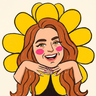
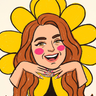
Registration page: village in the footer, calculator readable, softer highlight, Ana in first person, exit popup, sunflower behind her photo
- the village skyline moves from the hero to the top edge of the footer
- 'Bring the part': the pink editing marks (cut off at the edge) are gone
- gift: the camera zooms into the $150 card and rings the 20, then rests on the plan; the
  lock is a band along the bottom of the screen; the arrow runs from the $3,000 tile to the tag
- 'You can start from here': the yellow highlight is lighter
- labels in Ana's voice: 'From people in my past challenge', 'A student in my past challenge',
  'worked with me', 'Individual experiences from my...', the footer 'my own figures'
- header icon: cropped to the flower, no cream edge
- first-name hint: a soft pink glow every 7 seconds while the field is empty and not in use
- before you go: when someone heads for the tab bar (or flicks back up fast on a phone) the sign-up
  opens once, as 'Don't go yet. Save your free seat first...'; never in the first 12 s or twice
- I'm Ana: her sunflower in pale yellow behind the photo instead of the blue sea arch; sized to the room
  around the photo so its petals never reach the text (hidden where the photo sits under the text)

Claude-Session: https://claude.ai/code/session_01MxqKXt8jC4twN2icxWpMeU

diff --git a/index.html b/index.html
@@ -474,8 +474,8 @@ html.anim-on .ch:not(.in) .p-b{transform:translateX(40px) rotate(-8deg)}
 .fit ul button[aria-pressed=true] .tk svg{stroke-dashoffset:0}
 .fit .pain{font-weight:800;font-size:17px;line-height:1.4}
 .fit .fix{font-family:var(--serif);font-size:24px;line-height:1.25;color:var(--ink2)}
-.fit .fix span{background:linear-gradient(var(--sun),var(--sun)) no-repeat 0 88%/0% 42%;transition:background-size .5s var(--ease);-webkit-box-decoration-break:clone;box-decoration-break:clone}
-.fit ul button[aria-pressed=true] .fix span{background-size:100% 42%}
+.fit .fix span{background:linear-gradient(rgba(255,212,0,.42),rgba(255,212,0,.42)) no-repeat 0 90%/0% 34%;transition:background-size .5s var(--ease);-webkit-box-decoration-break:clone;box-decoration-break:clone}
+.fit ul button[aria-pressed=true] .fix span{background-size:100% 34%}
 .fit .tip{margin-top:18px;font-size:16px;color:var(--ink3);font-weight:700}
 .fit .not{margin-top:30px;font-size:15px;color:var(--ink3);text-align:center;text-wrap:balance}
 
@@ -1257,12 +1257,12 @@ html.anim-on [data-r]:not(.in){opacity:0;transform:translateY(22px)}
 @keyframes tksway{0%,16%,100%{transform:none}3%{transform:rotate(-1.3deg)}6.5%{transform:rotate(1.1deg)}10%{transform:rotate(-.6deg)}13%{transform:rotate(.25deg)}}
 @keyframes fglow{0%{border-color:var(--pink);background-color:#FFF3F9;box-shadow:0 0 0 0 rgba(247,37,133,.6),0 0 22px rgba(247,37,133,.4)}50%{border-color:var(--pink);background-color:#FFF3F9;box-shadow:0 0 0 10px rgba(247,37,133,0),0 0 22px rgba(247,37,133,.18)}85%,100%{border-color:#cbb9a2;background-color:#fff;box-shadow:0 0 0 0 rgba(247,37,133,0),0 0 0 rgba(247,37,133,0)}}
 .tkt .fmeta{text-wrap:balance}
-@keyframes fhint{0%,100%{border-color:#cbb9a2;box-shadow:0 0 0 0 rgba(247,37,133,0)}45%{border-color:rgba(247,37,133,.7);box-shadow:0 0 0 4px rgba(247,37,133,.1)}}
+@keyframes fhint{0%,30%,100%{border-color:#cbb9a2;box-shadow:0 0 0 0 rgba(247,37,133,0);background-color:#fff}12%{border-color:rgba(247,37,133,.75);box-shadow:0 0 0 5px rgba(247,37,133,.12);background-color:#FFF7FB}}
 @keyframes bglow{0%{outline:2px solid rgba(247,37,133,.35);outline-offset:0}65%,100%{outline:2px solid rgba(247,37,133,0);outline-offset:8px}}
 @media (prefers-reduced-motion:no-preference){
   .tkshell{animation:tksway 7s ease-in-out 2.5s infinite}
   .tkshell:focus-within,.tkshell:has(input:not(:placeholder-shown)){animation:none}
-  .tkt form .field input[name=first_name]:placeholder-shown:not(:focus){animation:fhint 2.8s ease-in-out 1.6s 2}
+  .tkt form .field input[name=first_name]:placeholder-shown:not(:focus){animation:fhint 7s ease-in-out 2.5s infinite}
   .tkt form:has(input[name=first_name]:not(:placeholder-shown)) .field input[name=email_address]:placeholder-shown:not(:focus){animation:fhint 2.8s ease-in-out .4s 1}
   .tkt form:has(input[name=first_name]:not(:placeholder-shown)):has(input[name=email_address]:valid) .btn.big{animation:bglow 2.4s ease-out .3s 2}
 }
@@ -1377,7 +1377,7 @@ mark.sk{color:var(--ink);font-weight:700;padding:0 2px;margin:0 -2px;-webkit-box
 .rvp .rv-q b{font-size:2.1cqw}.rvp .rv-q p{font-size:2.4cqw;line-height:1.3;color:var(--ink);margin-top:.2cqw}
 .rvp .rv-st{display:inline-flex;align-items:center;gap:.8cqw;margin-top:.8cqw;font-size:1.7cqw;font-weight:700;color:var(--pink)}
 .rvp .rv-st i{width:1.2cqw;height:1.2cqw;border-radius:50%;background:var(--pink)}
-.gcard:has(.gpaint){grid-template-columns:minmax(0,1.05fr) minmax(0,1fr);align-items:center}
+.gcard:has(.gpaint){grid-template-columns:minmax(0,1.3fr) minmax(0,1fr);align-items:center}
 .gpaint .gp-cam{position:absolute;inset:0;transform-origin:0 0}
 .gpaint .gp-cam img{width:100%;height:100%;object-fit:cover;object-position:0 0}
 .gpaint .gp-ink{position:absolute;inset:0;width:100%;height:100%;overflow:visible}
@@ -1656,7 +1656,7 @@ mark.sk{color:var(--ink);font-weight:700;padding:0 2px;margin:0 -2px;-webkit-box
 .gpaint .gp-doc{position:relative;width:100%}
 .gpaint .gp-doc img{display:block;width:100%!important;height:auto!important;object-fit:fill!important}
 .gpaint .gp-doc .gp-ink{position:absolute;inset:0;width:100%;height:100%}
-.gp-lock{position:absolute;left:0;right:0;top:64%;bottom:0;display:flex;align-items:flex-start;justify-content:center;padding-top:2.2%;background:linear-gradient(180deg,rgba(255,248,238,0),rgba(255,248,238,.32) 6%);-webkit-backdrop-filter:blur(2.6px);backdrop-filter:blur(2.6px)}
+.gp-lock{position:absolute;left:0;right:0;bottom:0;height:21%;z-index:3;display:flex;align-items:center;justify-content:center;background:linear-gradient(180deg,rgba(255,248,238,0),rgba(255,248,238,.75) 30%);-webkit-backdrop-filter:blur(3px);backdrop-filter:blur(3px)}
 .gp-lock span{display:inline-flex;align-items:center;gap:6px;padding:6px 12px;border-radius:999px;background:#FFD400;border:1.5px solid #1A1412;font:800 11.5px/1.1 Manrope,sans-serif;color:#1A1412;box-shadow:3px 3px 0 #1A1412;white-space:nowrap}
 .gp-lock span svg{width:13px;height:13px}
 /* the life calendar: money lifts off the two-hour blocks and drifts toward the free evenings and the weekend */
@@ -1730,7 +1730,8 @@ mark.sk{color:var(--ink);font-weight:700;padding:0 2px;margin:0 -2px;-webkit-box
    gift: the life you want (sunset sea) behind the laptop · wins: a pinboard · the 1:1s: the call rings out ·
    see you Tuesday: the sun rising over the sea behind her photo */
 .hero{background-image:linear-gradient(115deg,rgba(255,212,0,0) 30%,rgba(255,212,0,.1) 45%,rgba(255,212,0,0) 62%),radial-gradient(46% 42% at 26% 44%,rgba(255,212,0,.16),rgba(255,212,0,0) 70%),url(img/vip/paint/tx-stucco.webp)!important;background-size:auto,auto,460px!important}
-.bk-vil{position:absolute;left:0;right:0;bottom:0;width:100%;height:170px;opacity:.6;pointer-events:none;z-index:0}
+footer.has-vil{position:relative}
+.ft-vil{position:absolute;left:0;right:0;bottom:calc(100% - 22px);width:100%;height:150px;pointer-events:none}
 .hero .hwrap{position:relative;z-index:1}
 .stage .sky{position:absolute;inset:0;overflow:hidden}
 .sky.s1{background:linear-gradient(180deg,#FFF5DA 0%,#FFE7C2 60%,#FFD9AE 100%)}
@@ -1744,7 +1745,10 @@ mark.sk{color:var(--ink);font-weight:700;padding:0 2px;margin:0 -2px;-webkit-box
 .lv .stage .fl{display:none}
 .where{position:relative}
 .where>.wrap{position:relative;z-index:1}
-.hst-pic .bk-aeg{position:absolute;left:-16%;right:-16%;top:-10%;width:132%;height:112%;z-index:0}
+.hst-tx{position:relative;z-index:2}
+.hst-pic .bk-sf{position:absolute;left:50%;top:50%;width:150%;max-width:none;aspect-ratio:1;height:auto;transform:translate(-50%,-50%);z-index:0;opacity:.9;pointer-events:none}
+@media (prefers-reduced-motion:no-preference){.hst-pic .bk-sf{animation:sfTurn 120s linear infinite}}
+@keyframes sfTurn{to{transform:translate(-50%,-50%) rotate(360deg)}}
 .hst-pic figure{position:relative;z-index:1}
 .life{position:relative;background-image:linear-gradient(90deg,rgba(255,226,140,.45),rgba(255,232,241,0) 40%,rgba(255,232,241,0) 62%,rgba(247,37,133,.12))!important}
 .life>.wrap{position:relative;z-index:1}
@@ -1799,7 +1803,7 @@ mark.sk{color:var(--ink);font-weight:700;padding:0 2px;margin:0 -2px;-webkit-box
 .fit ul.nb li:last-child{border-bottom:0}
 .fit ul.nb button{grid-template-columns:36px 1fr 1fr;gap:22px 30px;background:transparent;border:0;border-radius:0;padding:18px 30px 18px 40px;box-shadow:none;transform:none}
 .fit ul.nb button:hover{transform:none;background:rgba(255,212,0,.08)}
-.fit ul.nb button[aria-pressed=true]{background:rgba(255,212,0,.09);box-shadow:none;border:0}
+.fit ul.nb button[aria-pressed=true]{background:rgba(255,212,0,.06);box-shadow:none;border:0}
 .fit ul.nb .tk{position:relative;z-index:1;margin-left:-13px;background:#FFFDF7}
 @media (max-width:760px){.fit ul.nb{padding:18px 0 8px 0;transform:none}.fit ul.nb:before{left:29px}.fit ul.nb button{grid-template-columns:32px 1fr;gap:6px 14px;padding:16px 16px 16px 30px}.fit ul.nb .tk{margin-left:-17px}}
 /* the window in depth: the video sits back in the wall (lintel, jambs and sill drawn as a recess, shadow from the top
@@ -1885,7 +1889,6 @@ mark.sk{color:var(--ink);font-weight:700;padding:0 2px;margin:0 -2px;-webkit-box
 
 <!-- 1. HERO: the client hero layout (Kieran Drew / Chad Carson), component for component, in Ana's skin -->
 <section class="hero" id="hero">
-  <svg class="bk-vil" viewBox="0 0 1440 170" preserveAspectRatio="xMidYMax slice" aria-hidden="true"><path d="M0 170 V150 C200 130 420 142 720 128 C1000 116 1250 134 1440 120 V170 Z" fill="#EFE6D8"/><path d="M86 170 C77 140 80 110 86 92 C92 110 95 140 86 170 Z" fill="#8FAA6A"/><path d="M540 170 C531 140 534 110 540 92 C546 110 549 140 540 170 Z" fill="#8FAA6A"/><path d="M1040 170 C1031 140 1034 110 1040 92 C1046 110 1049 140 1040 170 Z" fill="#8FAA6A"/><path d="M1350 170 C1341 140 1344 110 1350 92 C1356 110 1359 140 1350 170 Z" fill="#8FAA6A"/><rect x="20" y="112" width="70" height="58" fill="#FFFFFF" stroke="#E2D6C6" stroke-width="1.2"/><rect x="47" y="138" width="15" height="32" fill="#9DBEDD"/><rect x="28" y="122" width="11" height="11" fill="#BFD7EC"/><rect x="96" y="96" width="54" height="74" fill="#FFFFFF" stroke="#E2D6C6" stroke-width="1.2"/><rect x="117" y="129" width="12" height="41" fill="#9DBEDD"/><circle cx="140" cy="100" r="9" fill="#F7A8C8"/><circle cx="148" cy="106" r="7" fill="#F28AB2"/><rect x="156" y="118" width="80" height="52" fill="#FFFFFF" stroke="#E2D6C6" stroke-width="1.2"/><rect x="186" y="141" width="18" height="29" fill="#9DBEDD"/><rect x="244" y="104" width="60" height="66" fill="#FFFFFF" stroke="#E2D6C6" stroke-width="1.2"/><rect x="267" y="134" width="13" height="36" fill="#9DBEDD"/><rect x="251" y="116" width="10" height="10" fill="#BFD7EC"/><rect x="310" y="122" width="90" height="48" fill="#FFFFFF" stroke="#E2D6C6" stroke-width="1.2"/><rect x="344" y="144" width="20" height="26" fill="#9DBEDD"/><rect x="410" y="100" width="56" height="70" fill="#FFFFFF" stroke="#E2D6C6" stroke-width="1.2"/><rect x="431" y="132" width="12" height="38" fill="#9DBEDD"/><circle cx="456" cy="104" r="9" fill="#F7A8C8"/><circle cx="464" cy="110" r="7" fill="#F28AB2"/><rect x="474" y="114" width="74" height="56" fill="#FFFFFF" stroke="#E2D6C6" stroke-width="1.2"/><rect x="502" y="139" width="16" height="31" fill="#9DBEDD"/><rect x="483" y="124" width="12" height="12" fill="#BFD7EC"/><rect x="560" y="108" width="64" height="62" fill="#FFFFFF" stroke="#E2D6C6" stroke-width="1.2"/><rect x="584" y="136" width="14" height="34" fill="#9DBEDD"/><rect x="632" y="120" width="88" height="50" fill="#FFFFFF" stroke="#E2D6C6" stroke-width="1.2"/><rect x="665" y="142" width="19" height="28" fill="#9DBEDD"/><rect x="732" y="98" width="58" height="72" fill="#FFFFFF" stroke="#E2D6C6" stroke-width="1.2"/><rect x="754" y="130" width="13" height="40" fill="#9DBEDD"/><rect x="739" y="111" width="9" height="9" fill="#BFD7EC"/><circle cx="780" cy="102" r="9" fill="#F7A8C8"/><circle cx="788" cy="108" r="7" fill="#F28AB2"/><rect x="798" y="116" width="76" height="54" fill="#FFFFFF" stroke="#E2D6C6" stroke-width="1.2"/><rect x="827" y="140" width="17" height="30" fill="#9DBEDD"/><rect x="886" y="106" width="62" height="64" fill="#FFFFFF" stroke="#E2D6C6" stroke-width="1.2"/><rect x="910" y="135" width="14" height="35" fill="#9DBEDD"/><rect x="956" y="120" width="84" height="50" fill="#FFFFFF" stroke="#E2D6C6" stroke-width="1.2"/><rect x="988" y="142" width="18" height="28" fill="#9DBEDD"/><rect x="966" y="129" width="13" height="13" fill="#BFD7EC"/><rect x="1048" y="100" width="58" height="70" fill="#FFFFFF" stroke="#E2D6C6" stroke-width="1.2"/><rect x="1070" y="132" width="13" height="38" fill="#9DBEDD"/><circle cx="1096" cy="104" r="9" fill="#F7A8C8"/><circle cx="1104" cy="110" r="7" fill="#F28AB2"/><rect x="1114" y="114" width="72" height="56" fill="#FFFFFF" stroke="#E2D6C6" stroke-width="1.2"/><rect x="1141" y="139" width="16" height="31" fill="#9DBEDD"/><rect x="1194" y="108" width="66" height="62" fill="#FFFFFF" stroke="#E2D6C6" stroke-width="1.2"/><rect x="1219" y="136" width="15" height="34" fill="#9DBEDD"/><rect x="1202" y="119" width="11" height="11" fill="#BFD7EC"/><rect x="1268" y="118" width="86" height="52" fill="#FFFFFF" stroke="#E2D6C6" stroke-width="1.2"/><rect x="1301" y="141" width="19" height="29" fill="#9DBEDD"/><rect x="1362" y="102" width="60" height="68" fill="#FFFFFF" stroke="#E2D6C6" stroke-width="1.2"/><rect x="1385" y="133" width="13" height="37" fill="#9DBEDD"/><circle cx="1412" cy="106" r="9" fill="#F7A8C8"/><circle cx="1420" cy="112" r="7" fill="#F28AB2"/><path d="M316 122 a22 22 0 0 1 44 0 Z" fill="#7EA6D0"/><rect x="336.5" y="88" width="3" height="12" fill="#7EA6D0"/><path d="M962 120 a24 24 0 0 1 48 0 Z" fill="#7EA6D0"/><rect x="984.5" y="84" width="3" height="12" fill="#7EA6D0"/></svg>
   <svg class="bgflower" aria-hidden="true"><use href="#sfo"/></svg>
   <svg class="bgflower b" aria-hidden="true"><use href="#sfo"/></svg>
   <div class="hwrap hgrid v2h">
@@ -2101,13 +2104,13 @@ mark.sk{color:var(--ink);font-weight:700;padding:0 2px;margin:0 -2px;-webkit-box
     <!-- what a first offer can do with a small list: three results -->
     <div class="trio" data-r>
       <h3 class="trio-h"><span class="l">Small lists.</span> <span class="l"><em>Real results.</em></span></h3>
-      <p class="trio-k">From people in Ana’s past challenge</p>
+      <p class="trio-k">From people in my past challenge</p>
       <div class="trio-g">
-        <figure class="trr"><b class="trr-n">$3,000+</b><span class="trr-f">in a month, from about 300 readers</span><span class="trr-cash" data-bills="30" aria-hidden="true"></span><div class="rn"><div class="rn-hd"><span class="rn-av">JH</span><span><b>Jill Hart | World Changer</b><small>Substack note</small></span></div><p><span class="rn-at">Ana Calin</span> When I first started here she really helped me sort out what was important and where to focus - because of her advise I was able to monetize a 300ish audience and make over $3K in a month. And she helped me connect the idea of Substack &amp; Skool together.</p><span class="rn-ic" aria-hidden="true"><svg viewBox="0 0 24 24"><path d="M12 20s-7-4.4-7-10a4 4 0 0 1 7-2.6A4 4 0 0 1 19 10c0 5.6-7 10-7 10Z"/></svg><svg viewBox="0 0 24 24"><path d="M5 5h14v10H9l-4 4Z"/></svg><svg viewBox="0 0 24 24"><path d="M7 7h10l-3-3M17 17H7l3 3M17 7v4M7 17v-4"/></svg><svg viewBox="0 0 24 24"><path d="M12 15V4M8 8l4-4 4 4M5 13v6h14v-6"/></svg></span></div><figcaption>Jill Hart, in Ana’s past challenge</figcaption></figure>
-        <figure class="trr"><b class="trr-n">$3,200</b><span class="trr-f">from 547 subscribers</span><span class="trr-cash" data-bills="32" aria-hidden="true"></span><div class="trq"><p>First launch ever. Three emails, launched the same week.</p></div><figcaption>A student in Ana’s past challenge</figcaption></figure>
-        <figure class="trr"><b class="trr-n">$2,400</b><span class="trr-f">from 198 subscribers</span><span class="trr-cash" data-bills="24" aria-hidden="true"></span><div class="trq"><p>She almost didn’t start because she thought 198 subscribers wasn’t enough. It was.</p></div><figcaption>A student in Ana’s past challenge</figcaption></figure>
+        <figure class="trr"><b class="trr-n">$3,000+</b><span class="trr-f">in a month, from about 300 readers</span><span class="trr-cash" data-bills="30" aria-hidden="true"></span><div class="rn"><div class="rn-hd"><span class="rn-av">JH</span><span><b>Jill Hart | World Changer</b><small>Substack note</small></span></div><p><span class="rn-at">Ana Calin</span> When I first started here she really helped me sort out what was important and where to focus - because of her advise I was able to monetize a 300ish audience and make over $3K in a month. And she helped me connect the idea of Substack &amp; Skool together.</p><span class="rn-ic" aria-hidden="true"><svg viewBox="0 0 24 24"><path d="M12 20s-7-4.4-7-10a4 4 0 0 1 7-2.6A4 4 0 0 1 19 10c0 5.6-7 10-7 10Z"/></svg><svg viewBox="0 0 24 24"><path d="M5 5h14v10H9l-4 4Z"/></svg><svg viewBox="0 0 24 24"><path d="M7 7h10l-3-3M17 17H7l3 3M17 7v4M7 17v-4"/></svg><svg viewBox="0 0 24 24"><path d="M12 15V4M8 8l4-4 4 4M5 13v6h14v-6"/></svg></span></div><figcaption>Jill Hart, in my past challenge</figcaption></figure>
+        <figure class="trr"><b class="trr-n">$3,200</b><span class="trr-f">from 547 subscribers</span><span class="trr-cash" data-bills="32" aria-hidden="true"></span><div class="trq"><p>First launch ever. Three emails, launched the same week.</p></div><figcaption>A student in my past challenge</figcaption></figure>
+        <figure class="trr"><b class="trr-n">$2,400</b><span class="trr-f">from 198 subscribers</span><span class="trr-cash" data-bills="24" aria-hidden="true"></span><div class="trq"><p>She almost didn’t start because she thought 198 subscribers wasn’t enough. It was.</p></div><figcaption>A student in my past challenge</figcaption></figure>
       </div>
-      <p class="trio-n">Individual experiences from Ana’s past challenge. Results vary.</p>
+      <p class="trio-n">Individual experiences from my past challenge. Results vary.</p>
     </div>
 
     <div class="after" data-r>
@@ -2146,7 +2149,7 @@ mark.sk{color:var(--ink);font-weight:700;padding:0 2px;margin:0 -2px;-webkit-box
         <div class="cta2"><button class="btn open" type="button" data-cta="host"><span class="sf-b" aria-hidden="true"><svg><use href="#sf"/></svg></span><span class="bt">Show me your numbers, Ana <small class="bq">(free)</small></span><svg class="ar"><use href="#arr"/></svg></button><small>free · live on Zoom</small></div>
       </div>
       <div class="hst-pic" data-r>
-        <svg class="bk-aeg" viewBox="0 0 400 480" preserveAspectRatio="xMidYMid slice" aria-hidden="true"><defs><clipPath id="aegA"><path d="M0 480 V170 A200 170 0 0 1 400 170 V480 Z"/></clipPath><linearGradient id="aegS" x1="0" y1="0" x2="0" y2="1"><stop offset="0" stop-color="#CFE3F3"/><stop offset="1" stop-color="#F5F1E8"/></linearGradient></defs><g clip-path="url(#aegA)"><rect width="400" height="480" fill="url(#aegS)"/><circle cx="318" cy="92" r="34" fill="#FFD966"/><circle cx="318" cy="92" r="46" fill="none" stroke="#FFD966" stroke-width="2" stroke-dasharray="2 7"/><path d="M0 300 C80 292 160 306 240 298 C300 292 360 300 400 296 V480 H0Z" fill="#7EA6D0"/><path d="M0 340 C80 332 160 346 240 338 S360 340 400 336 V480 H0Z" fill="#5E8FC6"/><path d="M30 322 h40 M130 352 h52 M260 326 h44 M300 372 h56 M60 392 h40" stroke="#BFD7EC" stroke-width="3" stroke-linecap="round"/><path d="M0 300 V250 H34 V232 H70 V262 H96 V300 Z" fill="#fff"/><path d="M34 232 a18 18 0 0 1 36 0Z" fill="#3F7FB8"/><path d="M332 300 V262 H362 V244 H400 V300 Z" fill="#fff"/><path d="M196 330 L232 330 L226 340 L202 340 Z" fill="#F72585"/><path d="M214 330 V306 L230 326 Z" fill="#fff"/></g><path d="M0 480 V170 A200 170 0 0 1 400 170 V480" fill="none" stroke="#FFFFFF" stroke-width="10"/></svg>
+        <svg class="bk-sf" viewBox="-100 -100 200 200" aria-hidden="true"><g><ellipse cx="0" cy="-71" rx="13" ry="27" fill="#FFE68E" transform="rotate(0.0)"/><ellipse cx="0" cy="-71" rx="13" ry="27" fill="#FFE68E" transform="rotate(22.5)"/><ellipse cx="0" cy="-71" rx="13" ry="27" fill="#FFE68E" transform="rotate(45.0)"/><ellipse cx="0" cy="-71" rx="13" ry="27" fill="#FFE68E" transform="rotate(67.5)"/><ellipse cx="0" cy="-71" rx="13" ry="27" fill="#FFE68E" transform="rotate(90.0)"/><ellipse cx="0" cy="-71" rx="13" ry="27" fill="#FFE68E" transform="rotate(112.5)"/><ellipse cx="0" cy="-71" rx="13" ry="27" fill="#FFE68E" transform="rotate(135.0)"/><ellipse cx="0" cy="-71" rx="13" ry="27" fill="#FFE68E" transform="rotate(157.5)"/><ellipse cx="0" cy="-71" rx="13" ry="27" fill="#FFE68E" transform="rotate(180.0)"/><ellipse cx="0" cy="-71" rx="13" ry="27" fill="#FFE68E" transform="rotate(202.5)"/><ellipse cx="0" cy="-71" rx="13" ry="27" fill="#FFE68E" transform="rotate(225.0)"/><ellipse cx="0" cy="-71" rx="13" ry="27" fill="#FFE68E" transform="rotate(247.5)"/><ellipse cx="0" cy="-71" rx="13" ry="27" fill="#FFE68E" transform="rotate(270.0)"/><ellipse cx="0" cy="-71" rx="13" ry="27" fill="#FFE68E" transform="rotate(292.5)"/><ellipse cx="0" cy="-71" rx="13" ry="27" fill="#FFE68E" transform="rotate(315.0)"/><ellipse cx="0" cy="-71" rx="13" ry="27" fill="#FFE68E" transform="rotate(337.5)"/><ellipse cx="0" cy="-63" rx="12" ry="24" fill="#FFD95C" transform="rotate(11.25)"/><ellipse cx="0" cy="-63" rx="12" ry="24" fill="#FFD95C" transform="rotate(33.75)"/><ellipse cx="0" cy="-63" rx="12" ry="24" fill="#FFD95C" transform="rotate(56.25)"/><ellipse cx="0" cy="-63" rx="12" ry="24" fill="#FFD95C" transform="rotate(78.75)"/><ellipse cx="0" cy="-63" rx="12" ry="24" fill="#FFD95C" transform="rotate(101.25)"/><ellipse cx="0" cy="-63" rx="12" ry="24" fill="#FFD95C" transform="rotate(123.75)"/><ellipse cx="0" cy="-63" rx="12" ry="24" fill="#FFD95C" transform="rotate(146.25)"/><ellipse cx="0" cy="-63" rx="12" ry="24" fill="#FFD95C" transform="rotate(168.75)"/><ellipse cx="0" cy="-63" rx="12" ry="24" fill="#FFD95C" transform="rotate(191.25)"/><ellipse cx="0" cy="-63" rx="12" ry="24" fill="#FFD95C" transform="rotate(213.75)"/><ellipse cx="0" cy="-63" rx="12" ry="24" fill="#FFD95C" transform="rotate(236.25)"/><ellipse cx="0" cy="-63" rx="12" ry="24" fill="#FFD95C" transform="rotate(258.75)"/><ellipse cx="0" cy="-63" rx="12" ry="24" fill="#FFD95C" transform="rotate(281.25)"/><ellipse cx="0" cy="-63" rx="12" ry="24" fill="#FFD95C" transform="rotate(303.75)"/><ellipse cx="0" cy="-63" rx="12" ry="24" fill="#FFD95C" transform="rotate(326.25)"/><ellipse cx="0" cy="-63" rx="12" ry="24" fill="#FFD95C" transform="rotate(348.75)"/><circle r="46" fill="#F6C343"/></g></svg>
         <figure class="sq"><img src="img/ana-hat.webp" alt="Ana Calin" width="520" height="520" loading="lazy"></figure>
         <!-- then and now (Jason: an old-vs-new table that grows row by row): her own figures, as in the footer note -->
         <div class="hrc gads" aria-hidden="true">
@@ -2197,7 +2200,6 @@ mark.sk{color:var(--ink);font-weight:700;padding:0 2px;margin:0 -2px;-webkit-box
 
 <!-- 7. bring the part you're stuck on -->
 <section class="bring" id="bring">
-  <svg class="bk-marks" viewBox="0 0 1440 700" preserveAspectRatio="xMidYMid slice" aria-hidden="true"><path d="M60 120 C30 160 40 230 110 236 C190 242 210 160 160 120 C120 90 70 100 66 130"/><path d="M40 560 l30 34 l62 -84"/><path d="M1300 90 C1330 140 1380 150 1410 120 M1392 108 l18 12 l-6 20"/><path d="M1290 560 C1330 548 1360 570 1400 556 M1286 586 C1330 574 1366 598 1404 582"/><path d="M1340 330 l22 26 l46 -64"/><path d="M90 380 C110 350 140 350 150 380"/></svg>
   <div class="wrap">
     <div class="bringg two" data-r>
       <div class="bring-l">
@@ -2239,8 +2241,8 @@ mark.sk{color:var(--ink);font-weight:700;padding:0 2px;margin:0 -2px;-webkit-box
   <div class="wrap">
     <div class="gcard" data-r>
       <div class="gart pnt gpaint" aria-hidden="true">
-        <div class="dev lap" style="left:0;top:4%;width:92%"><img src="img/vip/paint/laptop.webp" alt="" width="600" height="420" loading="lazy"><div class="scrn2"><div class="gp-cam"><div class="gp-doc"><img src="img/vip/raw/calc-tall.webp" alt="" width="1620" height="3003" loading="lazy"><svg class="gp-ink" viewBox="0 0 1080 2002" preserveAspectRatio="none"><path class="gp-ring" d="M392 404 C424 382 492 384 498 426 C504 470 452 484 418 474 C384 462 380 424 404 400"/></svg><div class="gp-lock"><span><svg viewBox="0 0 20 20"><rect x="4" y="9" width="12" height="9" rx="2" fill="#1A1412"/><path d="M7 9V6.5a3 3 0 0 1 6 0V9" fill="none" stroke="#1A1412" stroke-width="2"/></svg>The full calculator opens after you register</span></div></div></div></div></div>
-        <div class="gp-life" style="right:-6%;top:47%;width:52%"><img src="img/vip/paint/gift-card.webp" alt="" loading="lazy">
+        <div class="dev lap" style="left:-2%;top:2%;width:100%"><img src="img/vip/paint/laptop.webp" alt="" width="600" height="420" loading="lazy"><div class="scrn2"><div class="gp-cam"><div class="gp-doc"><img src="img/vip/raw/calc-tall.webp" alt="" width="1620" height="3003" loading="lazy"><svg class="gp-ink" viewBox="0 0 1080 2002" preserveAspectRatio="none"><path class="gp-ring" d="M392 404 C424 382 492 384 498 426 C504 470 452 484 418 474 C384 462 380 424 404 400"/></svg></div><div class="gp-lock"><span><svg viewBox="0 0 20 20"><rect x="4" y="9" width="12" height="9" rx="2" fill="#1A1412"/><path d="M7 9V6.5a3 3 0 0 1 6 0V9" fill="none" stroke="#1A1412" stroke-width="2"/></svg>The full calculator opens after you register</span></div></div></div></div>
+        <div class="gp-life" style="right:0;top:64%;width:34%"><img src="img/vip/paint/gift-card.webp" alt="" loading="lazy">
           <svg class="gp-str" viewBox="0 0 100 60" preserveAspectRatio="none"><path d="M88 14 C76 20 70 32 66 44"/></svg>
           <div class="gp-tag"><img src="img/vip/paint/gift-tag.webp" alt="" loading="lazy"><span class="gp-num"><b>$3,000</b><small>a month</small></span></div></div>
         <svg class="gp-flow" viewBox="0 0 100 100" preserveAspectRatio="none" style="position:absolute;left:0;top:0;width:100%;height:100%"><path d="M40 33 C50 33 57 40 60 49"/><path d="M56.6 46.6 L60 49 L61.4 44.6"/></svg>
@@ -2291,7 +2293,7 @@ mark.sk{color:var(--ink);font-weight:700;padding:0 2px;margin:0 -2px;-webkit-box
       <p class="hp">I’ll show you the offers and emails behind my business, including the ones that disappointed me.</p>
       <p class="hp">You’ll see what I sent, what happened, and what I learned from it. Then you can judge whether the same decisions could help with your own work.</p>
     </div>
-    <h3 class="rv-h" data-r><span class="rv-ey"><span class="rv-mini" aria-hidden="true"><img style="--i:0;--r:-8deg" src="img/vip/paint/star-a.webp" alt="" width="70" height="70"><img style="--i:1;--r:5deg" src="img/vip/paint/star-b.webp" alt="" width="70" height="70"><img style="--i:2;--r:-3deg" src="img/vip/paint/star-c.webp" alt="" width="70" height="70"><img style="--i:3;--r:8deg" src="img/vip/paint/star-a.webp" alt="" width="70" height="70"><img style="--i:4;--r:-5deg" src="img/vip/paint/star-b.webp" alt="" width="70" height="70"></span><span>From readers and students who’ve worked with Ana</span></span></h3>
+    <h3 class="rv-h" data-r><span class="rv-ey"><span class="rv-mini" aria-hidden="true"><img style="--i:0;--r:-8deg" src="img/vip/paint/star-a.webp" alt="" width="70" height="70"><img style="--i:1;--r:5deg" src="img/vip/paint/star-b.webp" alt="" width="70" height="70"><img style="--i:2;--r:-3deg" src="img/vip/paint/star-c.webp" alt="" width="70" height="70"><img style="--i:3;--r:8deg" src="img/vip/paint/star-a.webp" alt="" width="70" height="70"><img style="--i:4;--r:-5deg" src="img/vip/paint/star-b.webp" alt="" width="70" height="70"></span><span>From readers and students who’ve worked with me</span></span></h3>
     <div class="rgrid" data-r>
       <figure class="rq"><blockquote>Can I just say that you have over delivered. Wow! It's nice to have a clear map. Still work to do, but much more satisfying, and less wheel spinning. :)</blockquote><figcaption><img src="img/av/gustavo.webp" alt="" width="80" height="80" loading="lazy"><span><b>Gustavo Karakey</b><span class="stars" aria-label="5 stars"><svg viewBox="0 0 20 20"><path d="M10 1.8l2.5 5.2 5.7.8-4.1 4 1 5.7L10 14.8l-5.1 2.7 1-5.7-4.1-4 5.7-.8Z"/></svg><svg viewBox="0 0 20 20"><path d="M10 1.8l2.5 5.2 5.7.8-4.1 4 1 5.7L10 14.8l-5.1 2.7 1-5.7-4.1-4 5.7-.8Z"/></svg><svg viewBox="0 0 20 20"><path d="M10 1.8l2.5 5.2 5.7.8-4.1 4 1 5.7L10 14.8l-5.1 2.7 1-5.7-4.1-4 5.7-.8Z"/></svg><svg viewBox="0 0 20 20"><path d="M10 1.8l2.5 5.2 5.7.8-4.1 4 1 5.7L10 14.8l-5.1 2.7 1-5.7-4.1-4 5.7-.8Z"/></svg><svg viewBox="0 0 20 20"><path d="M10 1.8l2.5 5.2 5.7.8-4.1 4 1 5.7L10 14.8l-5.1 2.7 1-5.7-4.1-4 5.7-.8Z"/></svg></span></span></figcaption></figure>
       <figure class="rq"><blockquote>What a brilliant, actionable, organised, inspiring bootcamp. Thank you, Ana.</blockquote><figcaption><img src="img/av/jeanette.webp" alt="" width="80" height="80" loading="lazy"><span><b>Jeanette Martin</b><span class="stars" aria-label="5 stars"><svg viewBox="0 0 20 20"><path d="M10 1.8l2.5 5.2 5.7.8-4.1 4 1 5.7L10 14.8l-5.1 2.7 1-5.7-4.1-4 5.7-.8Z"/></svg><svg viewBox="0 0 20 20"><path d="M10 1.8l2.5 5.2 5.7.8-4.1 4 1 5.7L10 14.8l-5.1 2.7 1-5.7-4.1-4 5.7-.8Z"/></svg><svg viewBox="0 0 20 20"><path d="M10 1.8l2.5 5.2 5.7.8-4.1 4 1 5.7L10 14.8l-5.1 2.7 1-5.7-4.1-4 5.7-.8Z"/></svg><svg viewBox="0 0 20 20"><path d="M10 1.8l2.5 5.2 5.7.8-4.1 4 1 5.7L10 14.8l-5.1 2.7 1-5.7-4.1-4 5.7-.8Z"/></svg><svg viewBox="0 0 20 20"><path d="M10 1.8l2.5 5.2 5.7.8-4.1 4 1 5.7L10 14.8l-5.1 2.7 1-5.7-4.1-4 5.7-.8Z"/></svg></span></span></figcaption></figure>
@@ -2313,7 +2315,7 @@ mark.sk{color:var(--ink);font-weight:700;padding:0 2px;margin:0 -2px;-webkit-box
     <button class="aw-more" type="button" hidden>show all 9 wins</button>
     <script>(function(){var w=document.currentScript.parentNode,b=w.querySelector(".aw-more");if(matchMedia("(max-width:700px)").matches){w.classList.add("short");b.hidden=false;b.addEventListener("click",function(){w.classList.remove("short");b.hidden=true})}})();</script>
     </div>
-    <p class="wall-src">Individual experiences from Ana’s earlier teaching and challenge. Results vary.</p>
+    <p class="wall-src">Individual experiences from my earlier teaching and challenge. Results vary.</p>
     <div class="cta2 c"><button class="btn open" type="button" data-cta="reviews"><span class="sf-b" aria-hidden="true"><svg><use href="#sf"/></svg></span><span class="bt">I want to see the work <small class="bq">(it’s free)</small></span><svg class="ar"><use href="#arr"/></svg></button><small>free · live on Zoom</small></div>
   </div>
 </section>
@@ -2428,13 +2430,14 @@ mark.sk{color:var(--ink);font-weight:700;padding:0 2px;margin:0 -2px;-webkit-box
   </div>
 </section>
 
-<footer>
+<footer class="has-vil">
+  <svg class="ft-vil" viewBox="0 0 1440 170" preserveAspectRatio="xMidYMax slice" aria-hidden="true"><path d="M0 170 V150 C200 130 420 142 720 128 C1000 116 1250 134 1440 120 V170 Z" fill="#FFD400"/><path d="M86 170 C77 140 80 110 86 92 C92 110 95 140 86 170 Z" fill="#8FAA6A"/><path d="M540 170 C531 140 534 110 540 92 C546 110 549 140 540 170 Z" fill="#8FAA6A"/><path d="M1040 170 C1031 140 1034 110 1040 92 C1046 110 1049 140 1040 170 Z" fill="#8FAA6A"/><path d="M1350 170 C1341 140 1344 110 1350 92 C1356 110 1359 140 1350 170 Z" fill="#8FAA6A"/><rect x="20" y="112" width="70" height="58" fill="#FFFFFF" stroke="#E2D6C6" stroke-width="1.2"/><rect x="47" y="138" width="15" height="32" fill="#9DBEDD"/><rect x="28" y="122" width="11" height="11" fill="#BFD7EC"/><rect x="96" y="96" width="54" height="74" fill="#FFFFFF" stroke="#E2D6C6" stroke-width="1.2"/><rect x="117" y="129" width="12" height="41" fill="#9DBEDD"/><circle cx="140" cy="100" r="9" fill="#F7A8C8"/><circle cx="148" cy="106" r="7" fill="#F28AB2"/><rect x="156" y="118" width="80" height="52" fill="#FFFFFF" stroke="#E2D6C6" stroke-width="1.2"/><rect x="186" y="141" width="18" height="29" fill="#9DBEDD"/><rect x="244" y="104" width="60" height="66" fill="#FFFFFF" stroke="#E2D6C6" stroke-width="1.2"/><rect x="267" y="134" width="13" height="36" fill="#9DBEDD"/><rect x="251" y="116" width="10" height="10" fill="#BFD7EC"/><rect x="310" y="122" width="90" height="48" fill="#FFFFFF" stroke="#E2D6C6" stroke-width="1.2"/><rect x="344" y="144" width="20" height="26" fill="#9DBEDD"/><rect x="410" y="100" width="56" height="70" fill="#FFFFFF" stroke="#E2D6C6" stroke-width="1.2"/><rect x="431" y="132" width="12" height="38" fill="#9DBEDD"/><circle cx="456" cy="104" r="9" fill="#F7A8C8"/><circle cx="464" cy="110" r="7" fill="#F28AB2"/><rect x="474" y="114" width="74" height="56" fill="#FFFFFF" stroke="#E2D6C6" stroke-width="1.2"/><rect x="502" y="139" width="16" height="31" fill="#9DBEDD"/><rect x="483" y="124" width="12" height="12" fill="#BFD7EC"/><rect x="560" y="108" width="64" height="62" fill="#FFFFFF" stroke="#E2D6C6" stroke-width="1.2"/><rect x="584" y="136" width="14" height="34" fill="#9DBEDD"/><rect x="632" y="120" width="88" height="50" fill="#FFFFFF" stroke="#E2D6C6" stroke-width="1.2"/><rect x="665" y="142" width="19" height="28" fill="#9DBEDD"/><rect x="732" y="98" width="58" height="72" fill="#FFFFFF" stroke="#E2D6C6" stroke-width="1.2"/><rect x="754" y="130" width="13" height="40" fill="#9DBEDD"/><rect x="739" y="111" width="9" height="9" fill="#BFD7EC"/><circle cx="780" cy="102" r="9" fill="#F7A8C8"/><circle cx="788" cy="108" r="7" fill="#F28AB2"/><rect x="798" y="116" width="76" height="54" fill="#FFFFFF" stroke="#E2D6C6" stroke-width="1.2"/><rect x="827" y="140" width="17" height="30" fill="#9DBEDD"/><rect x="886" y="106" width="62" height="64" fill="#FFFFFF" stroke="#E2D6C6" stroke-width="1.2"/><rect x="910" y="135" width="14" height="35" fill="#9DBEDD"/><rect x="956" y="120" width="84" height="50" fill="#FFFFFF" stroke="#E2D6C6" stroke-width="1.2"/><rect x="988" y="142" width="18" height="28" fill="#9DBEDD"/><rect x="966" y="129" width="13" height="13" fill="#BFD7EC"/><rect x="1048" y="100" width="58" height="70" fill="#FFFFFF" stroke="#E2D6C6" stroke-width="1.2"/><rect x="1070" y="132" width="13" height="38" fill="#9DBEDD"/><circle cx="1096" cy="104" r="9" fill="#F7A8C8"/><circle cx="1104" cy="110" r="7" fill="#F28AB2"/><rect x="1114" y="114" width="72" height="56" fill="#FFFFFF" stroke="#E2D6C6" stroke-width="1.2"/><rect x="1141" y="139" width="16" height="31" fill="#9DBEDD"/><rect x="1194" y="108" width="66" height="62" fill="#FFFFFF" stroke="#E2D6C6" stroke-width="1.2"/><rect x="1219" y="136" width="15" height="34" fill="#9DBEDD"/><rect x="1202" y="119" width="11" height="11" fill="#BFD7EC"/><rect x="1268" y="118" width="86" height="52" fill="#FFFFFF" stroke="#E2D6C6" stroke-width="1.2"/><rect x="1301" y="141" width="19" height="29" fill="#9DBEDD"/><rect x="1362" y="102" width="60" height="68" fill="#FFFFFF" stroke="#E2D6C6" stroke-width="1.2"/><rect x="1385" y="133" width="13" height="37" fill="#9DBEDD"/><circle cx="1412" cy="106" r="9" fill="#F7A8C8"/><circle cx="1420" cy="112" r="7" fill="#F28AB2"/><path d="M316 122 a22 22 0 0 1 44 0 Z" fill="#7EA6D0"/><rect x="336.5" y="88" width="3" height="12" fill="#7EA6D0"/><path d="M962 120 a24 24 0 0 1 48 0 Z" fill="#7EA6D0"/><rect x="984.5" y="84" width="3" height="12" fill="#7EA6D0"/></svg>
   <div class="wrap">
     <div class="top">
       <div class="brand"><img src="img/mark.png" alt="" width="50" height="50" loading="lazy">how we grow</div>
       <div class="links"><span>@ANACALIN</span><a href="https://substack.com/privacy" rel="noopener">privacy</a></div>
     </div>
-    <p class="src">$1.4M and reader count: Ana's own figures, published on howwegrowtoday.com.</p>
+    <p class="src">$1.4M and reader count: my own figures, published on howwegrowtoday.com.</p>
   </div>
 </footer>
 
@@ -2626,12 +2629,37 @@ mark.sk{color:var(--ink);font-weight:700;padding:0 2px;margin:0 -2px;-webkit-box
     setTimeout(function(){ var f = form.querySelector('[name=first_name]'); if (f && !dlg.classList.contains('done')) f.focus({preventScroll:true}) }, reduce ? 0 : 260);
   }
   function closeM(){
+    if (window.__epExitReset) setTimeout(window.__epExitReset, 300);
     modal.classList.remove('open'); modal.setAttribute('aria-hidden','true'); document.body.classList.remove('noscroll');
     placeForm();
     if (lastBtn) lastBtn.focus({preventScroll:true});
   }
   document.querySelectorAll('.open').forEach(function(b){b.addEventListener('click', openM)});
   modal.querySelector('.x').addEventListener('click', closeM);
+  /* before you go: when someone heads for the tab bar (desktop) or flicks back up fast after reading a while
+     (phones), the sign-up opens once, with its own first line. Never in the first 12 seconds, never twice, and
+     never after they've signed up or started typing */
+  (function(){
+    var hEl = form.querySelector('#dlg-h'), sEl = form.querySelector('.fsub'), h0 = hEl.textContent, s0 = sEl.textContent, t0 = Date.now(), shown = false;
+    try { shown = sessionStorage.getItem('ep_exit') === '1' } catch (x) {}
+    function exitOpen(){
+      if (shown || Date.now() - t0 < 12000 || modal.classList.contains('open') || dlg.classList.contains('done')) return;
+      var f1 = form.querySelector('[name=first_name]'); if (f1 && f1.value) return;
+      shown = true; try { sessionStorage.setItem('ep_exit', '1') } catch (x) {}
+      hEl.textContent = 'Don’t go yet.'; sEl.textContent = 'Save your free seat first. Three days live with me on Zoom, Dec\u00a08\u00a0to\u00a010.';
+      dlg.insertBefore(form, thanksEl); lastBtn = null;
+      modal.classList.add('open', 'exit'); modal.setAttribute('aria-hidden','false'); document.body.classList.add('noscroll');
+      setTimeout(function(){ var f = form.querySelector('[name=first_name]'); if (f) f.focus({preventScroll:true}) }, reduce ? 0 : 260);
+    }
+    window.__epExitReset = function(){ hEl.textContent = h0; sEl.textContent = s0; modal.classList.remove('exit') };
+    document.addEventListener('mouseout', function(e){ if (!e.relatedTarget && e.clientY <= 0) exitOpen() });
+    if (matchMedia('(pointer:coarse)').matches) {
+      var ly = scrollY, lt = Date.now(), deep = 0;
+      addEventListener('scroll', function(){ var y = scrollY, t = Date.now(); deep = Math.max(deep, y / Math.max(1, document.body.scrollHeight - innerHeight));
+        if (deep > .35 && ly - y > 700 && t - lt < 500) exitOpen();
+        if (t - lt > 500) { ly = y; lt = t } }, { passive: true });
+    }
+  })();
   modal.addEventListener('click', function(e){ if (e.target === modal) closeM() });
   document.addEventListener('keydown', function(e){
     if (!modal.classList.contains('open')) return;
@@ -2752,6 +2780,6 @@ mark.sk{color:var(--ink);font-weight:700;padding:0 2px;margin:0 -2px;-webkit-box
 </script>
 <script src="assets/vendor/gsap.min.js"></script>
 <script src="assets/vendor/ScrollTrigger.min.js"></script>
-<script src="assets/reg-motion.js?v=20"></script>
+<script src="assets/reg-motion.js?v=22"></script>
 </body>
 </html>

diff --git a/assets/reg-motion.js b/assets/reg-motion.js
@@ -26,6 +26,17 @@
     rows.forEach(function (r) { io.observe(r) });
   })();
 
+  /* I'm Ana: the sunflower behind her photo is sized to the room around it, so its petals never reach the text */
+  (function () {
+    var sf = $('.hst-pic .bk-sf'), fig = $('.hst-pic figure'); if (!sf || !fig) return;
+    function fit() { sf.style.width = ''; var f = fig.getBoundingClientRect(), cx = f.left + f.width / 2, cy = f.top + f.height * .5, want = f.width * .76, room = 1e9;
+      $$('.hst-tx p, .hst-tx h2, .hst-tx .cta2').forEach(function (e) { var r = e.getBoundingClientRect(); if (!r.width) return;
+        var dx = Math.max(r.left - cx, 0, cx - r.right), dy = Math.max(r.top - cy, 0, cy - r.bottom); room = Math.min(room, Math.hypot(dx, dy)) });
+      var R = Math.max(f.width * .52, Math.min(want, room - 18)); sf.style.width = (2 * R / .97) + 'px';
+      sf.style.opacity = R < f.width * .56 ? '0' : '' }
+    fit(); addEventListener('resize', fit); if (document.fonts) document.fonts.ready.then(fit);
+  })();
+
   /* the Day windows without motion: each shows its first slide, finished */
   if (!window.gsap || reduce) $$('.dk-f.a').forEach(function (f) { f.src = f.dataset.src + '?still=1' });
 
@@ -234,20 +245,32 @@
     var gp = $('.gpaint');
     if (gp) {
       var cam = $('.gp-cam', gp), doc = $('.gp-doc', gp), gr = $('.gp-ring', gp), lock = $('.gp-lock', gp), L = gr.getTotalLength(); gr.style.strokeDasharray = L + ' ' + (L + 2); gr.style.strokeDashoffset = L;
-      /* scroll the calculator so the point at fraction f of its height sits at fraction at of the screen */
-      function to(f, at) { return function () { return -(doc.offsetHeight * f - cam.offsetHeight * at) } }
-      $$('.gp-flow path', gp).forEach(function (q) { var l = q.getTotalLength(); q.style.strokeDasharray = l + ' ' + (l + 2); q.style.strokeDashoffset = l });
+      /* the camera on her calculator (doc units: the image is 1080 wide): xf = left edge as a share of the width,
+         yd = top edge in doc units, wf = how much of the width fills the screen */
+      function frame(xf, yd, wf) { return { scale: function () { return 1 / wf }, x: function () { return -xf * cam.offsetWidth / wf }, y: function () { return -yd * (cam.offsetWidth / 1080) / wf } } }
+      gsap.set(doc, { transformOrigin: '0 0' });
+      var fl = $$('.gp-flow path', gp); fl.forEach(function (q) { var l = q.getTotalLength(); q.style.strokeDasharray = l + ' ' + (l + 2); q.style.strokeDashoffset = l });
       var tk = gsap.timeline(), og = { t: 0 };
       tk.from($('.dev', gp), { y: 40, rotation: -2, opacity: 0, duration: .9, ease: 'power3.out' }, 0)
-        .fromTo(doc, { y: 0 }, { y: to(.205, .42), duration: 1.3, ease: 'power2.inOut', immediateRender: false }, 1.2)
-        .to(og, { t: 1, duration: .8, ease: 'power1.inOut', onUpdate: function () { gr.style.strokeDashoffset = L * (1 - og.t) } }, 2.5)
-        .to(doc, { y: to(.47, .35), duration: 1.2, ease: 'power2.inOut' }, 3.5)
-        .to(doc, { y: to(.71, .5), duration: 1.1, ease: 'power2.inOut' }, 5.0)
-        .from($('span', lock), { scale: .6, opacity: 0, duration: .5, ease: 'back.out(2)' }, 5.8)
-        .from($('.gp-life', gp), { y: 70, x: 30, rotation: 14, opacity: 0, duration: .85, ease: 'back.out(1.4)' }, 6.2)
-        .to($$('.gp-flow path', gp), { strokeDashoffset: 0, duration: .6, ease: 'power1.inOut', stagger: .5 }, 6.6)
-        .from($('.gp-tag', gp), { y: -60, rotation: -60, opacity: 0, duration: 1.4, ease: 'elastic.out(1,.35)' }, 7.2)
-        .from($('.gp-num', gp), { clipPath: 'inset(0 100% 0 0)', duration: .8, ease: 'none' }, 7.7)
+        .fromTo(doc, Object.assign({ scale: 1, x: 0, y: 0 }), Object.assign({ duration: 1.2, ease: 'power2.inOut', immediateRender: false }, frame(0, 230, 1)), 1.0)
+        .to(doc, Object.assign({ duration: 1.1, ease: 'power2.inOut' }, frame(.3, 300, .45)), 2.5)
+        .to(og, { t: 1, duration: .8, ease: 'power1.inOut', onUpdate: function () { gr.style.strokeDashoffset = L * (1 - og.t) } }, 3.5)
+        .to(doc, Object.assign({ duration: 1.3, ease: 'power2.inOut' }, frame(0, 716, 1)), 4.7)
+        .from(lock, { yPercent: 100, opacity: 0, duration: .5, ease: 'power2.out' }, 5.9)
+        .from($('span', lock), { scale: .6, opacity: 0, duration: .45, ease: 'back.out(2)' }, 6.1)
+        .from($('.gp-life', gp), { y: 70, x: 30, rotation: 14, opacity: 0, duration: .85, ease: 'back.out(1.4)' }, 6.3)
+        .add(function () {   /* the arrow runs from the $3,000 tile on the screen to the postcard's tag */
+          var g = gp.getBoundingClientRect(), c = cam.getBoundingClientRect(), r = c.width / 1080, tg = $('.gp-tag', gp).getBoundingClientRect();
+          var x0 = (c.left + 380 * r - g.left) / g.width * 100, y0 = (c.top + (972 - 716) * r - g.top) / g.height * 100;
+          var x1 = (tg.left + tg.width * .2 - g.left) / g.width * 100, y1 = (tg.top + tg.height * .3 - g.top) / g.height * 100;
+          var mx = (x0 + x1) / 2 + 4, my = Math.min(y0, y1) - 2;
+          fl[0].setAttribute('d', 'M' + x0.toFixed(1) + ' ' + y0.toFixed(1) + ' Q' + mx.toFixed(1) + ' ' + my.toFixed(1) + ' ' + x1.toFixed(1) + ' ' + y1.toFixed(1));
+          var a = Math.atan2(y1 - my, x1 - mx), h = 2.6;
+          fl[1].setAttribute('d', 'M' + (x1 - h * Math.cos(a - .5)).toFixed(1) + ' ' + (y1 - h * Math.sin(a - .5)).toFixed(1) + ' L' + x1.toFixed(1) + ' ' + y1.toFixed(1) + ' L' + (x1 - h * Math.cos(a + .5)).toFixed(1) + ' ' + (y1 - h * Math.sin(a + .5)).toFixed(1));
+          fl.forEach(function (q) { var l = q.getTotalLength(); q.style.strokeDasharray = l + ' ' + (l + 2); q.style.strokeDashoffset = l });
+          gsap.to(fl, { strokeDashoffset: 0, duration: .6, ease: 'power1.inOut', stagger: .5 }) }, 7.1)
+        .from($('.gp-tag', gp), { y: -60, rotation: -60, opacity: 0, duration: 1.4, ease: 'elastic.out(1,.35)' }, 7.0)
+        .from($('.gp-num', gp), { clipPath: 'inset(0 100% 0 0)', duration: .8, ease: 'none' }, 7.6)
         .from($('.gp-src', gp), { opacity: 0, y: 8, duration: .6 }, 7.9);
       when(gp, tk);
     }
